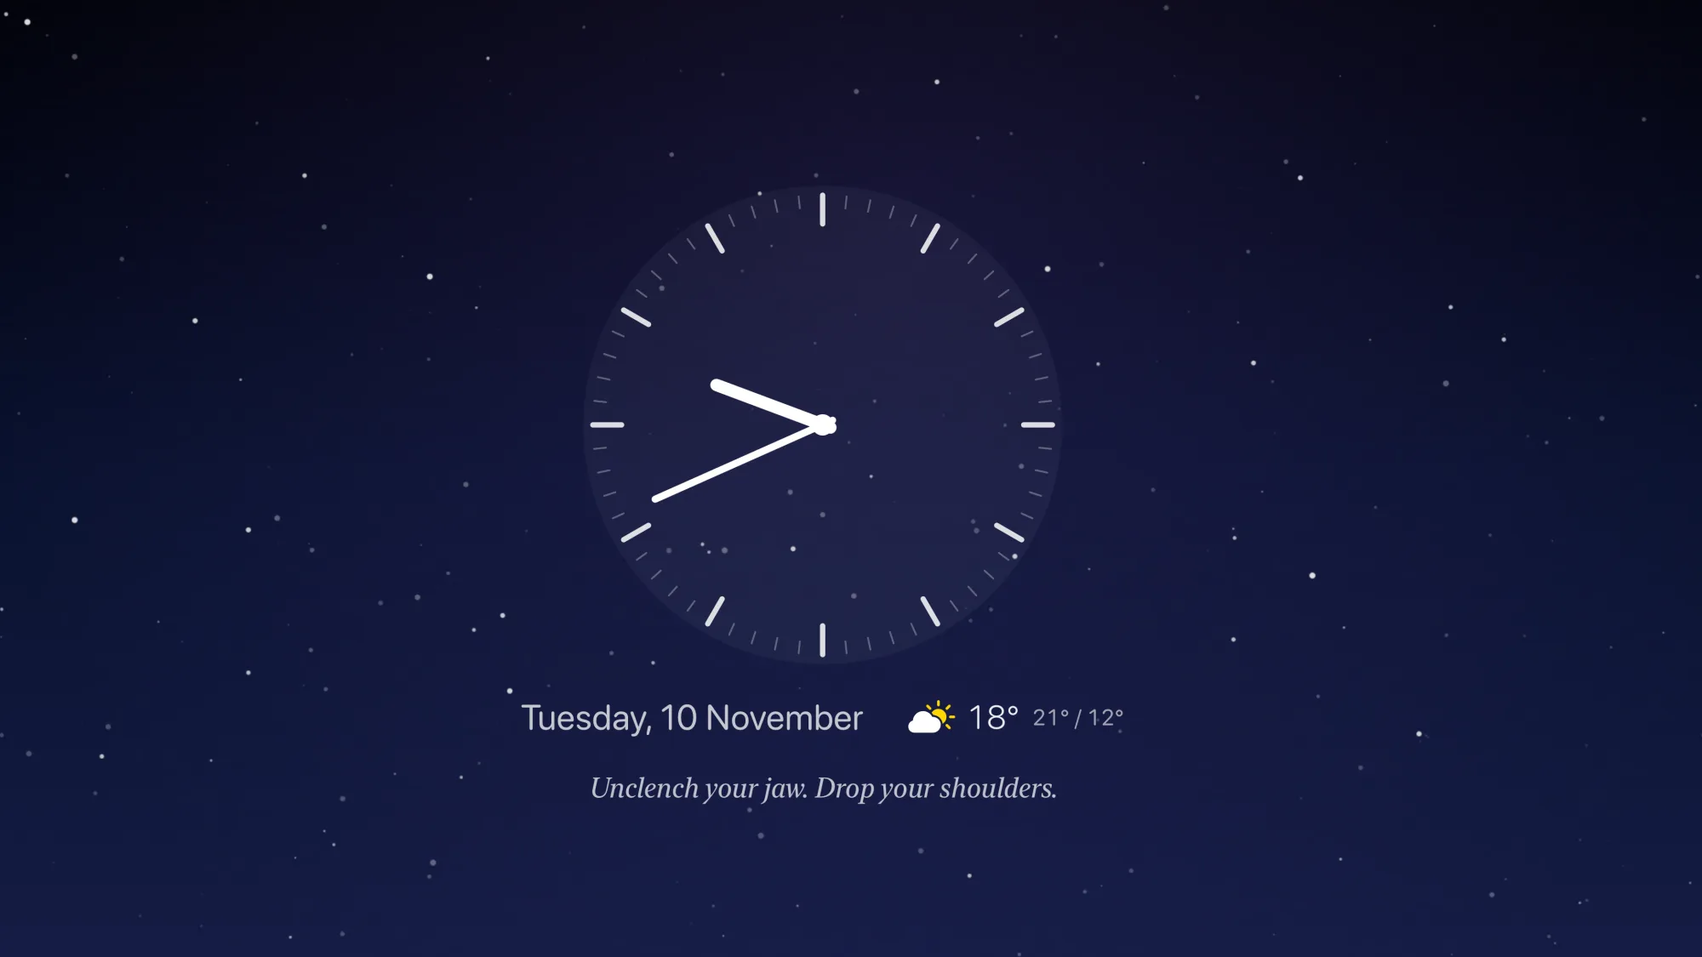
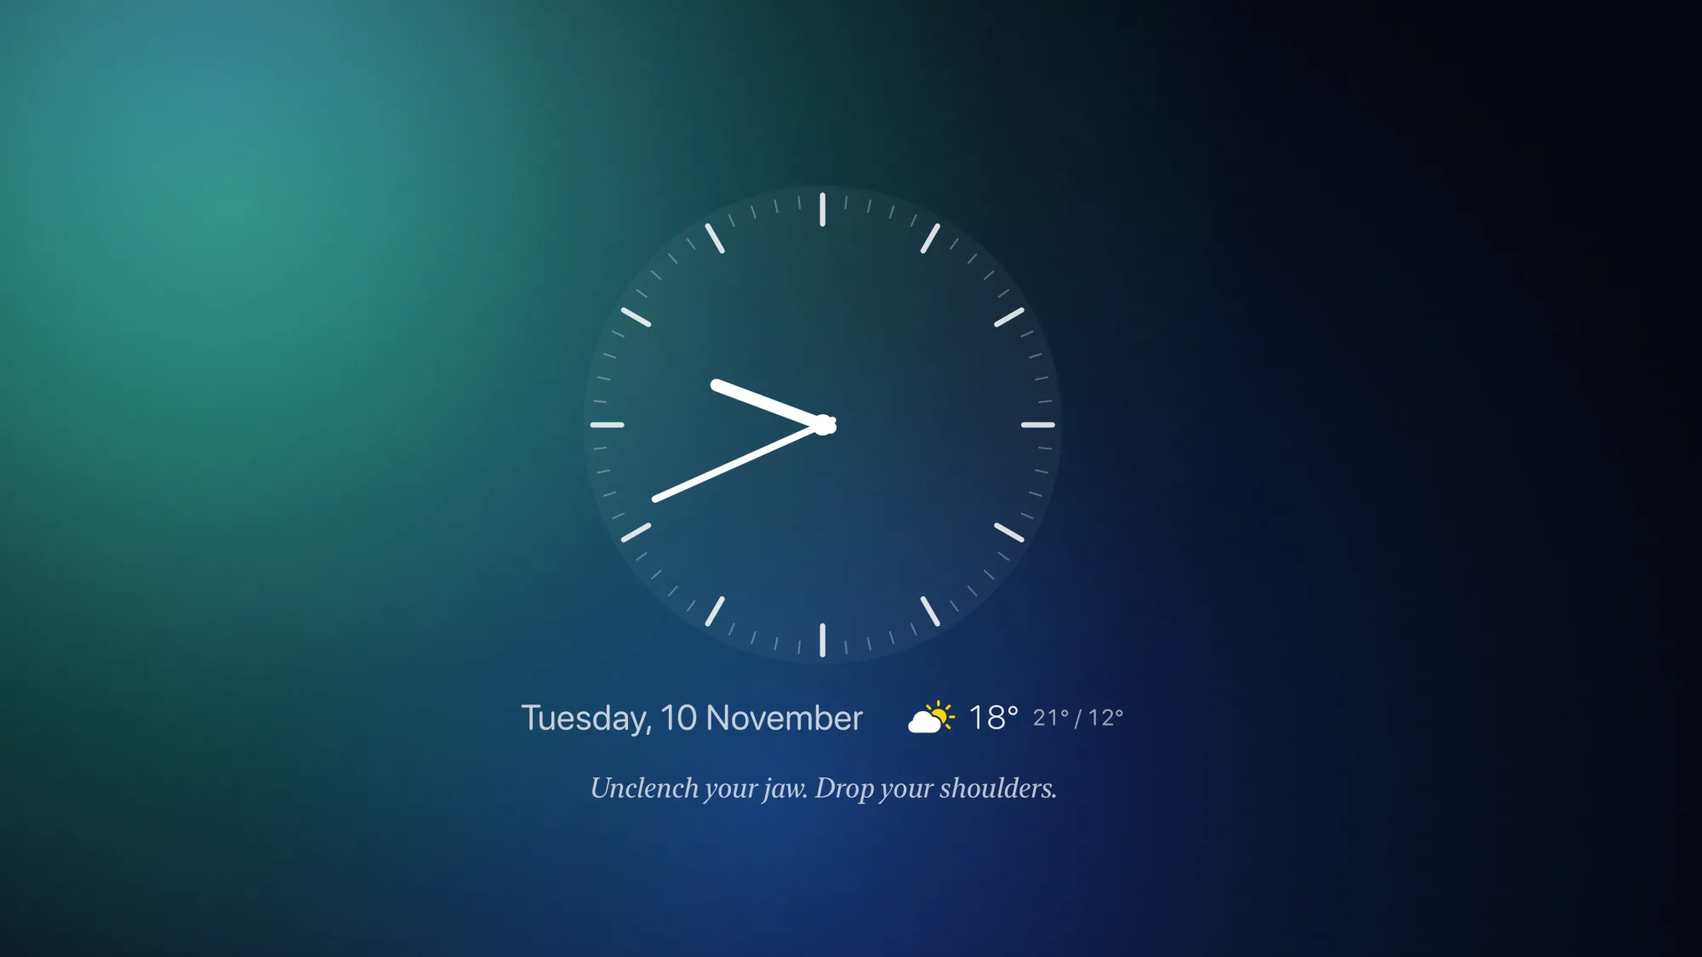
Luar page: eleven styles, Free + Premium, privacy for the purchase
- Eleven clock styles (Moon, Orbit, Neon, Classic added); Moon picture
  in the hero and on the home page card; new screenshot grid.
- "Free to start, Premium once" (€2.99, no subscription), the weather
  marked as Premium, and an FAQ on restoring Premium on another Apple TV.
- Privacy policy: the one-time in-app purchase (handled by Apple), the
  cached unlock, and the weather being part of Premium.

diff --git a/luar/index.html b/luar/index.html
@@ -6,7 +6,7 @@
 <meta charset="utf-8">
 <meta name="viewport" content="width=device-width, initial-scale=1">
 <title>Luar — a calm clock for your Apple TV</title>
-<meta name="description" content="Luar turns your Apple TV into a calm clock: seven clock styles, slow-moving backgrounds, the weather, and a short message for each day, in English and Portuguese.">
+<meta name="description" content="Luar turns your Apple TV into a calm clock: eleven clock styles, slow-moving backgrounds, the weather, and a short message for each day, in English and Portuguese. Free, with a one-time Premium unlock.">
 <link rel="icon" href="../assets/luar/favicon.png">
 <link rel="stylesheet" href="../css/styles.css">
 </head>
@@ -54,9 +54,9 @@
       </div>
       <h1>Luar</h1>
       <p class="hero-lead"
-         data-en="A calm clock for your Apple TV. Seven clock styles over slow, glowing backgrounds, with the weather and a short message for each day. Luar is Portuguese for moonlight."
-         data-pt="Um relógio calmo para a sua Apple TV. Sete estilos de relógio sobre fundos suaves e luminosos, com a meteorologia e uma mensagem curta para cada dia. Luar é a luz da lua.">
-        A calm clock for your Apple TV. Seven clock styles over slow, glowing backgrounds, with the weather and a short message for each day. Luar is Portuguese for moonlight.</p>
+         data-en="A calm clock for your Apple TV. Eleven clock styles over slow, glowing backgrounds, with the weather and a short message for each day. Luar is Portuguese for moonlight."
+         data-pt="Um relógio calmo para a sua Apple TV. Onze estilos de relógio sobre fundos suaves e luminosos, com a meteorologia e uma mensagem curta para cada dia. Luar é a luz da lua.">
+        A calm clock for your Apple TV. Eleven clock styles over slow, glowing backgrounds, with the weather and a short message for each day. Luar is Portuguese for moonlight.</p>
 
       <div class="stores">
         <span class="store"><small data-en="Coming soon to the" data-pt="Brevemente na">Coming soon to the</small><b>App Store</b></span>
@@ -64,7 +64,7 @@
     </div>
 
     <figure class="shot tv-shot" aria-hidden="true">
-      <div class="tablet"><img src="../assets/luar/tv-digital.webp" alt="" width="2000" height="1125"></div>
+      <div class="tablet"><img src="../assets/luar/tv-moon.webp" alt="" width="2000" height="1125"></div>
     </figure>
   </div>
 </section>
@@ -84,10 +84,10 @@
       <li class="service">
         <div class="service-icon" aria-hidden="true"><svg viewBox="0 0 24 24" fill="none" stroke="currentColor" stroke-width="1.8" stroke-linecap="round" stroke-linejoin="round"><circle cx="12" cy="12" r="9"/><path d="M12 7v5l3 2"/></svg></div>
         <div>
-          <h3 data-en="Seven clock styles" data-pt="Sete estilos de relógio">Seven clock styles</h3>
-          <p data-en="Digital, Flip, Analog, Ring, Stacked, Words and Corner, which tucks the time into a corner and leaves the background the room."
-             data-pt="Digital, Flip, Analógico, Anel, Empilhado, Palavras e Canto, que encosta as horas a um canto e deixa o fundo respirar.">
-            Digital, Flip, Analog, Ring, Stacked, Words and Corner, which tucks the time into a corner and leaves the background the room.</p>
+          <h3 data-en="Eleven clock styles" data-pt="Onze estilos de relógio">Eleven clock styles</h3>
+          <p data-en="Moon, with tonight’s phase, Orbit, Neon, Classic, Flip, Analog, Ring and Stacked, plus Digital, Words and Corner, which tucks the time into a corner and leaves the background the room."
+             data-pt="Lua, com a fase desta noite, Órbita, Néon, Clássico, Flip, Analógico, Anel e Empilhado, além de Digital, Palavras e Canto, que encosta as horas a um canto e deixa o fundo respirar.">
+            Moon, with tonight’s phase, Orbit, Neon, Classic, Flip, Analog, Ring and Stacked, plus Digital, Words and Corner, which tucks the time into a corner and leaves the background the room.</p>
         </div>
       </li>
       <li class="service">
@@ -112,9 +112,9 @@
         <div class="service-icon" aria-hidden="true"><svg viewBox="0 0 24 24" fill="none" stroke="currentColor" stroke-width="1.8" stroke-linecap="round" stroke-linejoin="round"><path d="M17.5 19a4.5 4.5 0 0 0 .5-8.97A6 6 0 0 0 6.34 9.2 4 4 0 0 0 6.5 19z"/></svg></div>
         <div>
           <h3 data-en="The weather at a glance" data-pt="A meteorologia num relance">The weather at a glance</h3>
-          <p data-en="The temperature now and today’s high and low where your Apple TV is, from Apple Weather."
-             data-pt="A temperatura atual e as máximas e mínimas de hoje onde está a sua Apple TV, da Apple Meteorologia.">
-            The temperature now and today’s high and low where your Apple TV is, from Apple Weather.</p>
+          <p data-en="The temperature now and today’s high and low where your Apple TV is, from Apple Weather. Part of Luar Premium."
+             data-pt="A temperatura atual e as máximas e mínimas de hoje onde está a sua Apple TV, da Apple Meteorologia. Faz parte do Luar Premium.">
+            The temperature now and today’s high and low where your Apple TV is, from Apple Weather. Part of Luar Premium.</p>
         </div>
       </li>
       <li class="service">
@@ -153,6 +153,15 @@
             Luar follows your Apple TV’s language, or choose one in Settings: menus, date, message and the Words style all switch.</p>
         </div>
       </li>
+      <li class="service">
+        <div class="service-icon" aria-hidden="true"><svg viewBox="0 0 24 24" fill="none" stroke="currentColor" stroke-width="1.8" stroke-linecap="round" stroke-linejoin="round"><path d="M12 3l2.6 5.6 6.1.7-4.5 4.2 1.2 6L12 16.6 6.6 19.5l1.2-6L3.3 9.3l6.1-.7z"/></svg></div>
+        <div>
+          <h3 data-en="Free to start, Premium once" data-pt="Grátis para começar, Premium de uma vez">Free to start, Premium once</h3>
+          <p data-en="Digital, Words and Corner, with three backgrounds, are free. Luar Premium unlocks all eleven styles, all ten backgrounds and the weather for a single €2.99. No subscription."
+             data-pt="Digital, Palavras e Canto, com três fundos, são grátis. O Luar Premium desbloqueia os onze estilos, os dez fundos e a meteorologia por 2,99 €, uma única vez. Sem subscrição.">
+            Digital, Words and Corner, with three backgrounds, are free. Luar Premium unlocks all eleven styles, all ten backgrounds and the weather for a single €2.99. No subscription.</p>
+        </div>
+      </li>
     </ul>
 
     <ul class="platforms" aria-label="Platforms">
@@ -171,25 +180,33 @@
 
     <div class="tv-grid">
       <figure class="shot">
-        <div class="tablet"><img src="../assets/luar/tv-flip.webp" alt="The Flip style: the time on flip-clock cards over a dusk-coloured glow" width="2000" height="1125" loading="lazy"></div>
-        <figcaption><b>Flip</b> · <span data-en="on Dusk" data-pt="sobre Crepúsculo">on Dusk</span></figcaption>
+        <div class="tablet"><img src="../assets/luar/tv-neon.webp" alt="The Neon style: the time in glowing pink neon over black" width="2000" height="1125" loading="lazy"></div>
+        <figcaption><b data-en="Neon" data-pt="Néon">Neon</b> · <span data-en="on Black" data-pt="sobre Preto">on Black</span></figcaption>
       </figure>
       <figure class="shot">
-        <div class="tablet"><img src="../assets/luar/tv-analog.webp" alt="The Analog style: a clock face over a starry night sky" width="2000" height="1125" loading="lazy"></div>
-        <figcaption><b data-en="Analog" data-pt="Analógico">Analog</b> · <span data-en="on Night Sky" data-pt="sobre Céu noturno">on Night Sky</span></figcaption>
+        <div class="tablet"><img src="../assets/luar/tv-orbit.webp" alt="The Orbit style: the hour and minute as planets circling a small sun" width="2000" height="1125" loading="lazy"></div>
+        <figcaption><b data-en="Orbit" data-pt="Órbita">Orbit</b> · <span data-en="on Ocean" data-pt="sobre Oceano">on Ocean</span></figcaption>
+      </figure>
+      <figure class="shot">
+        <div class="tablet"><img src="../assets/luar/tv-classic.webp" alt="The Classic style: the time in a large serif face with the weekday in italics" width="2000" height="1125" loading="lazy"></div>
+        <figcaption><b data-en="Classic" data-pt="Clássico">Classic</b> · <span data-en="on Ember" data-pt="sobre Brasa">on Ember</span></figcaption>
+      </figure>
+      <figure class="shot">
+        <div class="tablet"><img src="../assets/luar/tv-flip.webp" alt="The Flip style: the time on flip-clock cards over a dusk-coloured glow" width="2000" height="1125" loading="lazy"></div>
+        <figcaption><b data-en="Flip" data-pt="Flip">Flip</b> · <span data-en="on Dusk" data-pt="sobre Crepúsculo">on Dusk</span></figcaption>
+      </figure>
+      <figure class="shot">
+        <div class="tablet"><img src="../assets/luar/tv-analog.webp" alt="The Analog style: a clock face over an aurora glow" width="2000" height="1125" loading="lazy"></div>
+        <figcaption><b data-en="Analog" data-pt="Analógico">Analog</b> · <span data-en="on Aurora" data-pt="sobre Aurora">on Aurora</span></figcaption>
       </figure>
       <figure class="shot">
         <div class="tablet"><img src="../assets/luar/tv-words-pt.webp" alt="The Words style in Portuguese: São nove e quarenta e um da noite" width="2000" height="1125" loading="lazy"></div>
         <figcaption><b data-en="Words" data-pt="Palavras">Words</b> · <span data-en="in Portuguese, on Sunset" data-pt="em português, sobre Pôr do sol">in Portuguese, on Sunset</span></figcaption>
       </figure>
-      <figure class="shot">
-        <div class="tablet"><img src="../assets/luar/tv-stacked.webp" alt="The Stacked style: the hour above the minutes, with the day and weather beside them" width="2000" height="1125" loading="lazy"></div>
-        <figcaption><b data-en="Stacked" data-pt="Empilhado">Stacked</b> · <span data-en="on Ember" data-pt="sobre Brasa">on Ember</span></figcaption>
-      </figure>
     </div>
 
     <figure class="shot tv-shot" style="margin-top:4rem">
-      <div class="tablet"><img src="../assets/luar/tv-settings.webp" alt="Luar's settings: clock style, background, daily message and language" width="2000" height="1125" loading="lazy"></div>
+      <div class="tablet"><img src="../assets/luar/tv-settings.webp" alt="Luar’s settings: Premium, clock style, background and daily message" width="2000" height="1125" loading="lazy"></div>
       <figcaption><b data-en="Settings" data-pt="Definições">Settings</b> · <span data-en="click the remote, anywhere" data-pt="clique no comando, em qualquer momento">click the remote, anywhere</span></figcaption>
     </figure>
   </div>
@@ -226,8 +243,13 @@
       </details>
       <details>
         <summary data-en="Why does Luar ask for my location?" data-pt="Porque pede o Luar a minha localização?">Why does Luar ask for my location?</summary>
-        <p class="only-en">Only to show the weather where your Apple TV is. Your approximate location is used on the Apple TV to ask Apple Weather for the forecast; it’s never sent to us. Turn the weather off in Settings and Luar won’t ask. See the <a href="privacy/">privacy policy</a>.</p>
-        <p class="only-pt">Só para mostrar a meteorologia onde está a sua Apple TV. A localização aproximada é usada na Apple TV para pedir a previsão à Apple Meteorologia; nunca nos é enviada. Desligue a meteorologia nas Definições e o Luar não a pede. Consulte a <a href="privacy/">política de privacidade</a>.</p>
+        <p class="only-en">Only to show the weather where your Apple TV is, which is part of Luar Premium. Your approximate location is used on the Apple TV to ask Apple Weather for the forecast; it’s never sent to us. Without Premium, or with the weather off in Settings, Luar doesn’t ask. See the <a href="privacy/">privacy policy</a>.</p>
+        <p class="only-pt">Só para mostrar a meteorologia onde está a sua Apple TV, que faz parte do Luar Premium. A localização aproximada é usada na Apple TV para pedir a previsão à Apple Meteorologia; nunca nos é enviada. Sem o Premium, ou com a meteorologia desligada nas Definições, o Luar não a pede. Consulte a <a href="privacy/">política de privacidade</a>.</p>
+      </details>
+      <details>
+        <summary data-en="I bought Premium. How do I get it on another Apple TV?" data-pt="Comprei o Premium. Como o tenho noutra Apple TV?">I bought Premium. How do I get it on another Apple TV?</summary>
+        <p class="only-en">Premium belongs to your Apple Account, so you only pay once. On the other Apple TV, signed in with the same Apple Account, open Luar’s Settings › Premium › Restore purchase.</p>
+        <p class="only-pt">O Premium fica associado à sua conta Apple, por isso só paga uma vez. Na outra Apple TV, com a mesma conta Apple, abra as Definições do Luar › Premium › Restaurar compra.</p>
       </details>
       <details>
         <summary data-en="Which Apple TV do I need?" data-pt="Que Apple TV preciso?">Which Apple TV do I need?</summary>

diff --git a/luar/privacy/index.html b/luar/privacy/index.html
@@ -55,7 +55,8 @@
     <ul>
       <li>Luar has no account, no ads, no analytics and no tracking.</li>
       <li>Nothing you do in Luar is sent to us. We don’t run any server for it.</li>
-      <li>If you turn on the weather, your Apple TV’s approximate location is used on the device to get the forecast from Apple Weather. We never receive it.</li>
+      <li>If the weather is on (part of Luar Premium), your Apple TV’s approximate location is used on the device to get the forecast from Apple Weather. We never receive it.</li>
+      <li>Luar Premium is bought through the App Store. Apple handles the payment; we never see your payment details.</li>
     </ul>
   </div>
 
@@ -63,18 +64,19 @@
   <ul>
     <li><strong>Your settings:</strong> clock style, background, language, 24-hour clock, seconds, weather units, and your night and sleep hours.</li>
     <li><strong>The latest weather reading</strong> (temperature, today’s high and low, and a weather symbol), and the pictures shown on the Home screen banner (the Top Shelf). These are shared between Luar and its own Top Shelf extension on your Apple TV, and nowhere else.</li>
+    <li><strong>Whether Luar Premium is unlocked,</strong> so Luar can open with it straight away, before the App Store has answered.</li>
   </ul>
   <p>None of this leaves your Apple TV. It’s deleted when you delete the app.</p>
 
   <h2>2. Location and weather</h2>
-  <p>The weather is on unless you turn it off in Settings. The first time, Luar asks for permission to use your Apple TV’s location. It asks for an approximate position (to the nearest kilometre or so) and uses it only to ask Apple Weather (WeatherKit) for the current weather and today’s forecast. That request goes from your Apple TV to Apple and is covered by <a href="https://www.apple.com/legal/privacy/" rel="noopener">Apple’s privacy policy</a>. Luar doesn’t keep a history of your location and never sends it to us or to anyone else.</p>
+  <p>The weather is part of Luar Premium, and is on unless you turn it off in Settings. The first time it’s needed, Luar asks for permission to use your Apple TV’s location. It asks for an approximate position (to the nearest kilometre or so) and uses it only to ask Apple Weather (WeatherKit) for the current weather and today’s forecast. That request goes from your Apple TV to Apple and is covered by <a href="https://www.apple.com/legal/privacy/" rel="noopener">Apple’s privacy policy</a>. Luar doesn’t keep a history of your location and never sends it to us or to anyone else.</p>
   <p>If you don’t allow location, or turn the weather off, Luar simply shows the clock without the weather. You can change the permission at any time in your Apple TV’s settings. Weather data: <a href="https://weatherkit.apple.com/legal-attribution.html" rel="noopener"> Weather</a>.</p>
 
   <h2>3. No analytics, ads or tracking</h2>
   <p>Luar contains no analytics, advertising or tracking code, and nothing about how you use it is collected. If you’ve chosen in your Apple TV’s settings to share analytics with app developers, Apple may send us anonymous crash reports; that’s handled by Apple and you can turn it off there.</p>
 
   <h2>4. Purchases</h2>
-  <p>Luar has no in-app purchases today. If that changes, any payment will be handled by Apple through the App Store, and this policy will be updated before then.</p>
+  <p>Luar is free to download. Luar Premium is a one-time in-app purchase made through the App Store: Apple takes the payment and handles your Apple Account, and we never see your name, email or payment details. Apple tells the app only whether Premium has been bought on your Apple Account, and Luar remembers that on your Apple TV. Refunds are handled by Apple at <a href="https://reportaproblem.apple.com" rel="noopener">reportaproblem.apple.com</a>. Apple’s handling of purchases is covered by <a href="https://www.apple.com/legal/privacy/" rel="noopener">Apple’s privacy policy</a>.</p>
 
   <h2>5. Children</h2>
   <p>Luar doesn’t collect personal data from anyone, children included.</p>
@@ -104,7 +106,8 @@
     <ul>
       <li>O Luar não tem conta, anúncios, estatísticas de utilização nem rastreamento.</li>
       <li>Nada do que faz no Luar nos é enviado. Não temos nenhum servidor para a app.</li>
-      <li>Se ativar a meteorologia, a localização aproximada da sua Apple TV é usada no próprio dispositivo para obter a previsão da Apple Meteorologia. Nunca a recebemos.</li>
+      <li>Se a meteorologia estiver ativa (faz parte do Luar Premium), a localização aproximada da sua Apple TV é usada no próprio dispositivo para obter a previsão da Apple Meteorologia. Nunca a recebemos.</li>
+      <li>O Luar Premium é comprado através da App Store. A Apple trata do pagamento; nunca vemos os seus dados de pagamento.</li>
     </ul>
   </div>
 
@@ -112,18 +115,19 @@
   <ul>
     <li><strong>As suas definições:</strong> estilo do relógio, fundo, idioma, relógio de 24 horas, segundos, unidades de temperatura e as horas de noite e de repouso.</li>
     <li><strong>A última leitura da meteorologia</strong> (temperatura, máxima e mínima de hoje e um símbolo do tempo) e as imagens mostradas na faixa do ecrã principal (a Top Shelf). São partilhadas entre o Luar e a sua própria extensão da Top Shelf na Apple TV, e em mais lado nenhum.</li>
+    <li><strong>Se o Luar Premium está desbloqueado,</strong> para o Luar abrir logo com ele, antes de a App Store responder.</li>
   </ul>
   <p>Nada disto sai da sua Apple TV. É apagado quando apaga a app.</p>
 
   <h2>2. Localização e meteorologia</h2>
-  <p>A meteorologia está ativa, a menos que a desligue nas Definições. Da primeira vez, o Luar pede autorização para usar a localização da Apple TV. Pede uma posição aproximada (ao quilómetro, mais ou menos) e usa-a apenas para pedir à Apple Meteorologia (WeatherKit) o tempo atual e a previsão de hoje. Esse pedido vai da Apple TV para a Apple e está abrangido pela <a href="https://www.apple.com/pt/legal/privacy/" rel="noopener">política de privacidade da Apple</a>. O Luar não guarda um histórico da sua localização e nunca a envia para nós nem para mais ninguém.</p>
+  <p>A meteorologia faz parte do Luar Premium e está ativa, a menos que a desligue nas Definições. Da primeira vez que é precisa, o Luar pede autorização para usar a localização da Apple TV. Pede uma posição aproximada (ao quilómetro, mais ou menos) e usa-a apenas para pedir à Apple Meteorologia (WeatherKit) o tempo atual e a previsão de hoje. Esse pedido vai da Apple TV para a Apple e está abrangido pela <a href="https://www.apple.com/pt/legal/privacy/" rel="noopener">política de privacidade da Apple</a>. O Luar não guarda um histórico da sua localização e nunca a envia para nós nem para mais ninguém.</p>
   <p>Se não autorizar a localização, ou desligar a meteorologia, o Luar mostra simplesmente o relógio sem a meteorologia. Pode alterar a autorização a qualquer momento nas definições da Apple TV. Dados meteorológicos: <a href="https://weatherkit.apple.com/legal-attribution.html" rel="noopener"> Weather</a>.</p>
 
   <h2>3. Sem estatísticas, anúncios ou rastreamento</h2>
   <p>O Luar não contém código de estatísticas, publicidade ou rastreamento, e nada sobre a forma como o usa é recolhido. Se tiver escolhido nas definições da Apple TV partilhar análises com os programadores de apps, a Apple pode enviar-nos relatórios de falhas anónimos; isso é gerido pela Apple e pode desativá-lo lá.</p>
 
   <h2>4. Compras</h2>
-  <p>O Luar não tem compras na app neste momento. Se isso mudar, qualquer pagamento será tratado pela Apple através da App Store, e esta política será atualizada antes disso.</p>
+  <p>O Luar é gratuito. O Luar Premium é uma compra única na app, feita através da App Store: a Apple recebe o pagamento e trata da sua conta Apple, e nós nunca vemos o seu nome, email ou dados de pagamento. A Apple indica à app apenas se o Premium foi comprado na sua conta Apple, e o Luar guarda essa informação na sua Apple TV. Os reembolsos são tratados pela Apple em <a href="https://reportaproblem.apple.com" rel="noopener">reportaproblem.apple.com</a>. A forma como a Apple trata as compras está abrangida pela <a href="https://www.apple.com/pt/legal/privacy/" rel="noopener">política de privacidade da Apple</a>.</p>
 
   <h2>5. Crianças</h2>
   <p>O Luar não recolhe dados pessoais de ninguém, incluindo crianças.</p>

diff --git a/index.html b/index.html
@@ -180,13 +180,13 @@
           <span>Apple TV</span>
         </div>
         <h3>Luar</h3>
-        <p data-en="A calm clock for your Apple TV: seven clock styles over slow, glowing backgrounds, with the weather and a short message for each day. Coming soon to the App Store."
-           data-pt="Um relógio calmo para a sua Apple TV: sete estilos de relógio sobre fundos suaves e luminosos, com a meteorologia e uma mensagem curta para cada dia. Brevemente na App Store.">
-          A calm clock for your Apple TV: seven clock styles over slow, glowing backgrounds, with the weather and a short message for each day. Coming soon to the App Store.</p>
+        <p data-en="A calm clock for your Apple TV: eleven clock styles over slow, glowing backgrounds, with the weather and a short message for each day. Coming soon to the App Store."
+           data-pt="Um relógio calmo para a sua Apple TV: onze estilos de relógio sobre fundos suaves e luminosos, com a meteorologia e uma mensagem curta para cada dia. Brevemente na App Store.">
+          A calm clock for your Apple TV: eleven clock styles over slow, glowing backgrounds, with the weather and a short message for each day. Coming soon to the App Store.</p>
         <a href="luar/" class="btn btn-outline" data-en="See Luar →" data-pt="Ver o Luar →">See Luar →</a>
       </div>
       <div class="product-shot product-shot--tv" aria-hidden="true">
-        <div class="tablet"><img src="assets/luar/tv-digital.webp" alt="" width="2000" height="1125" loading="lazy"></div>
+        <div class="tablet"><img src="assets/luar/tv-moon.webp" alt="" width="2000" height="1125" loading="lazy"></div>
       </div>
     </div>
   </div>
